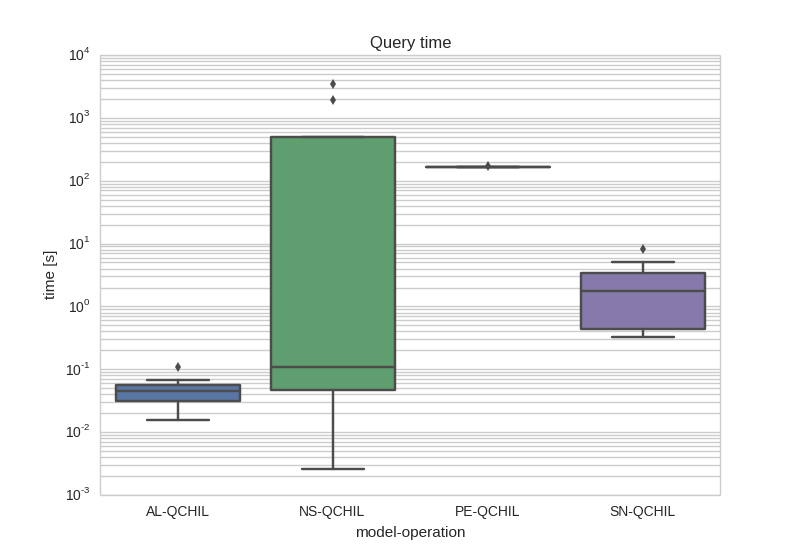
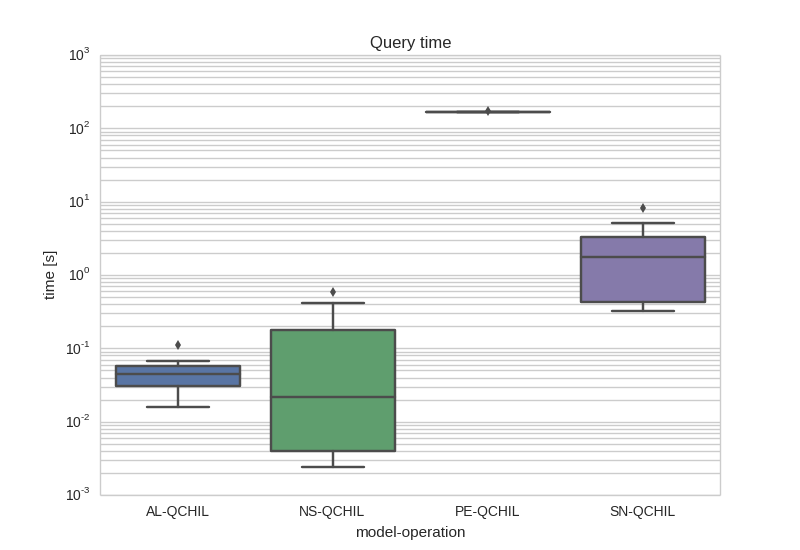
Improved NS-QCHIL

Changed region(s): [[0.0625, 0.0927, 0.9062, 0.8655]]

diff --git a/script/benchmark.py b/script/benchmark.py
@@ -14,8 +14,7 @@ DATA_FOLDER = '../data/'
 DATA_FILE = 'test-watersheds.txt'
 SQL_FOLDER = '../sql/'
 SQL_TOOLS_FOLDER = '../sql/tools/'
-#DB_NAME = 'dbname=iowa-hydro'
-DB_NAME = 'dbname=workflow'
+DB_NAME = 'dbname=db-opty'
 RESULT_FOLDER = '../data/benchmark/'
 RESULT_FOLDER_ITEMS = '../data/benchmark/result/'
 RESULT_FILE = 'results-query.txt'
@@ -176,9 +175,9 @@ def bench_all(append=False):
     operations = ('ADD', 'DEL', 'MOVE', 'QPARE', 'QCHIL', 'QPATH', 'QTREE')
 
     # runtime sets
-    models = (models[2],)   # only PE
-    operations = operations[3:]     # only queries, not operations
-    #operations = (operations[3],)      # for testing single operation
+    models = (models[1],)   # only NS
+    #operations = operations[3:]     # only queries, not operations
+    operations = (operations[3],)      # for testing single operation
 
     if not append:
         # write header to results file

diff --git a/script/figure.py b/script/figure.py
@@ -61,5 +61,6 @@ def plot_op(operation):
 
 if __name__ == "__main__":
 
-    for op in OPS:
-        plot_op(op)
+    plot_op('QPARE')
+    #for op in OPS:
+    #    plot_op(op)
